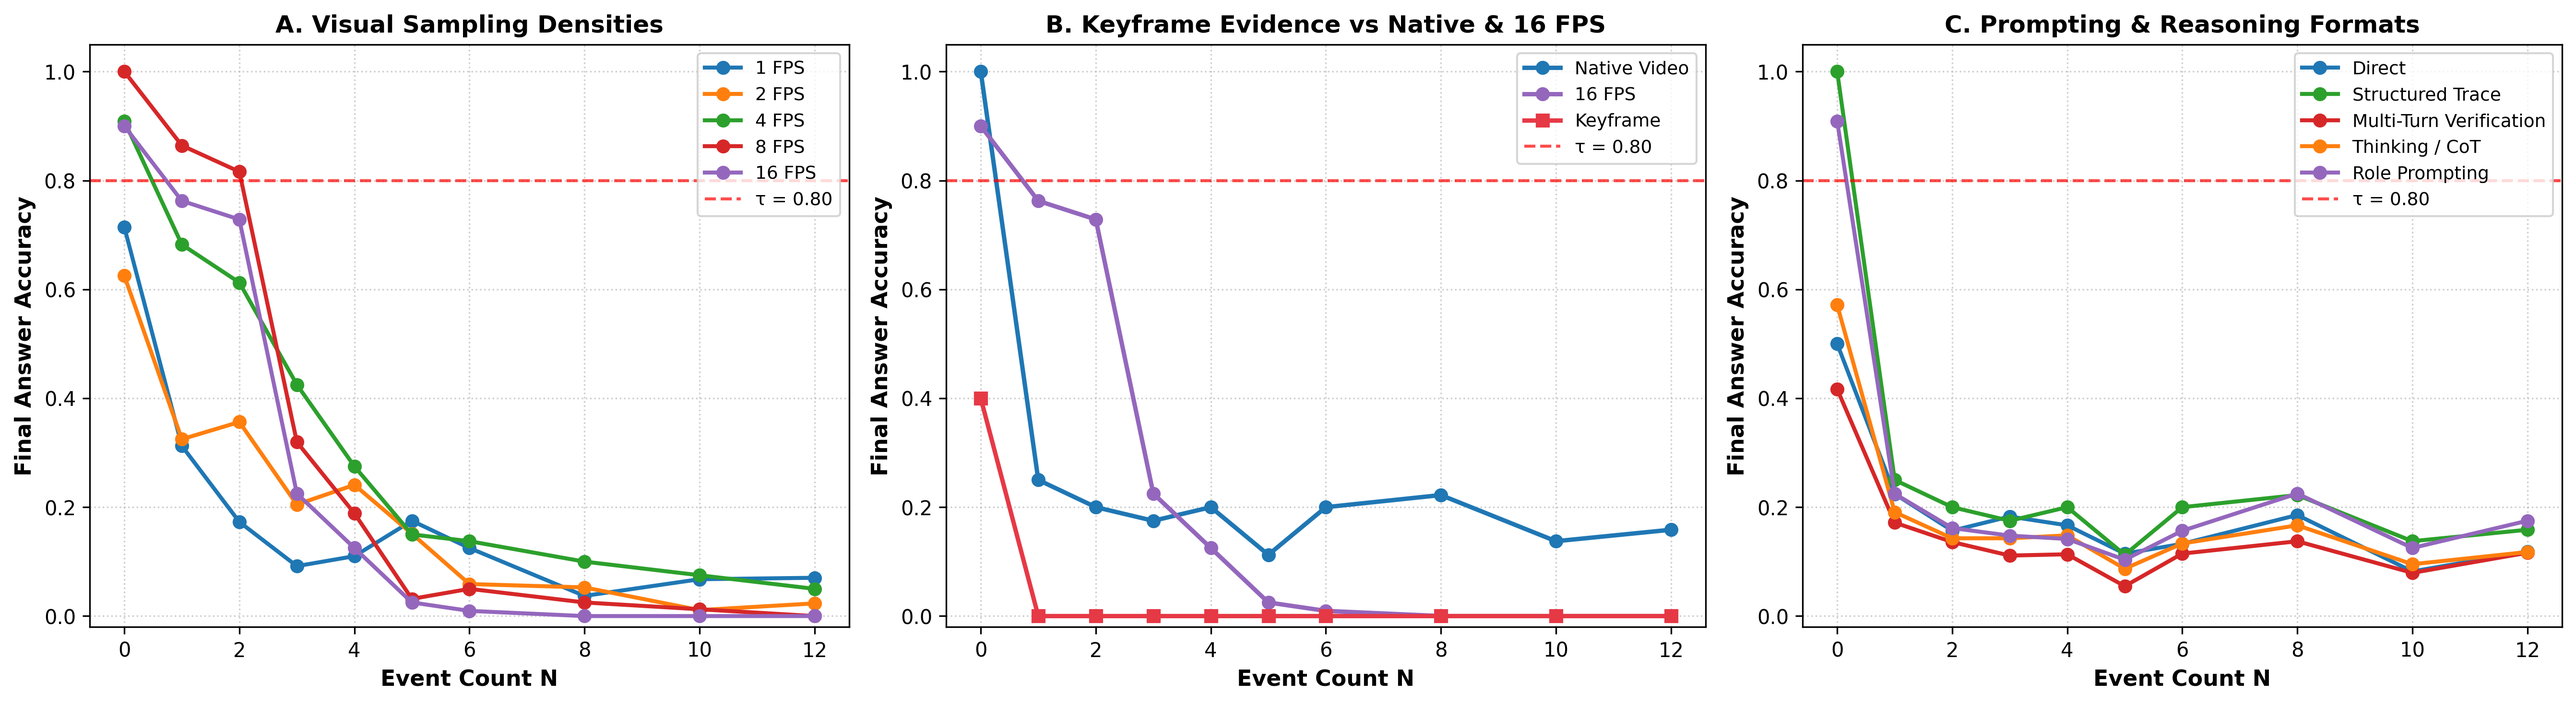
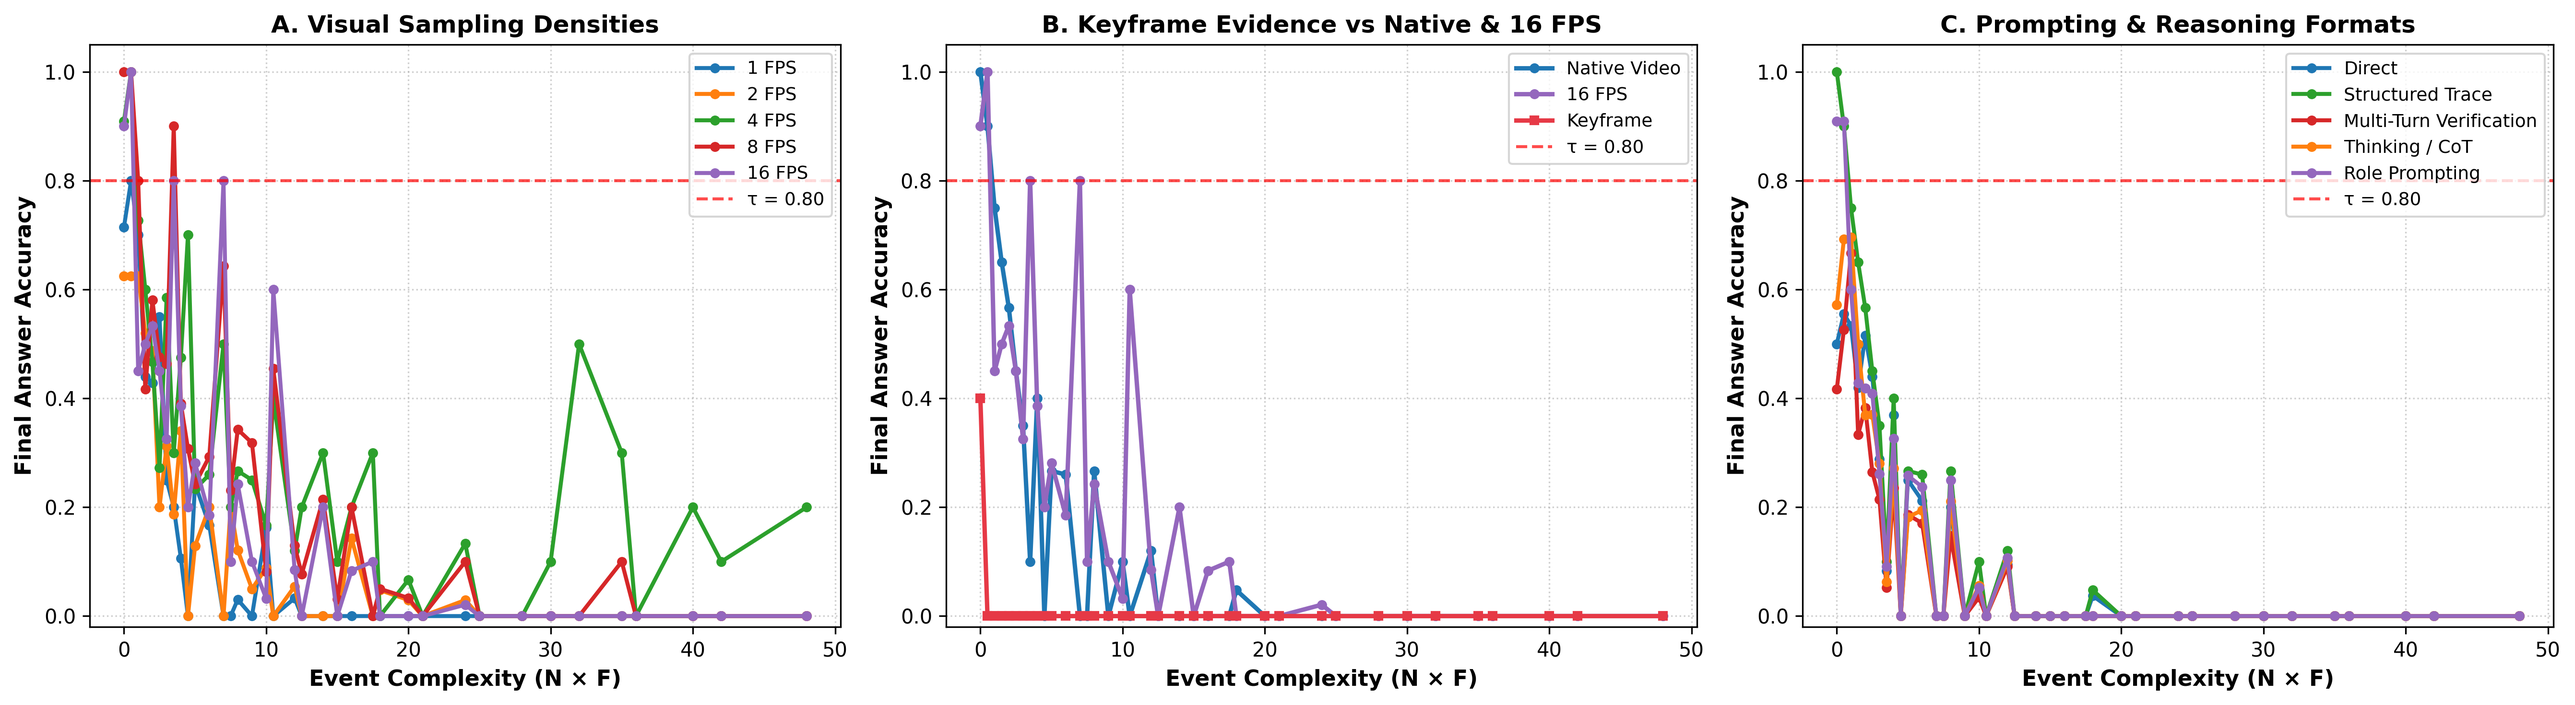
Plot Final Answer Accuracy vs Event Complexity N x F across all 3 intervention panels in Fig 4

diff --git a/scripts/build_paper_figures_and_tables.py b/scripts/build_paper_figures_and_tables.py
@@ -235,14 +235,12 @@ def main():
     for idx, domain in enumerate(["bounce_ball", "blinking", "state_machine"]):
         sub_df = df_base[df_base["task"] == domain]
         if not sub_df.empty:
-            # Pivot with F_hz on index (Y-axis) and N_count on columns (X-axis)
             pivot = sub_df.pivot_table(
                 index="F_hz",
                 columns="N_count",
                 values="exact_match_result",
                 aggfunc="mean"
             )
-            # Fill N=0 column if present
             if 0 in pivot.columns:
                 n0_mean = pivot[0].dropna().mean()
                 if not np.isnan(n0_mean):
@@ -270,11 +268,11 @@ def main():
     print(f"Saved {fig_3_path}")
 
     # -------------------------------------------------------------
-    # FIGURE 4: Intervention Analysis Line Plots (Panels A, B, C)
+    # FIGURE 4: Intervention Analysis Line Plots vs N x F (Panels A, B, C)
     # -------------------------------------------------------------
     fig, (ax_a, ax_b, ax_c) = plt.subplots(1, 3, figsize=(18, 5), dpi=300)
 
-    # Panel A: Visual Sampling Densities vs N
+    # Panel A: Visual Sampling Densities vs N x F
     fps_modes = [("1 FPS", "frames_1fps"), ("2 FPS", "frames_2fps"), ("4 FPS", "frames_4fps"), ("8 FPS", "frames_8fps"), ("16 FPS", "frames_16fps")]
     colors_fps = ["#1f77b4", "#ff7f0e", "#2ca02c", "#d62728", "#9467bd"]
 
@@ -287,23 +285,23 @@ def main():
                     if line.strip():
                         r = json.loads(line)
                         if r.get("task") == "bounce_ball" and r.get("exact_match_result") is not None:
-                            n, _ = parse_n_and_f(r["sample_id"])
-                            r["N_count"] = n
+                            n, freq = parse_n_and_f(r["sample_id"])
+                            r["NxF"] = round(n * freq, 2)
                             recs.append(r)
             if recs:
                 df_fps = pd.DataFrame(recs)
-                n_grouped = df_fps.groupby("N_count")["exact_match_result"].mean()
-                ax_a.plot(n_grouped.index, n_grouped.values, marker="o", label=label, color=color, linewidth=2)
+                nxf_grouped = df_fps.groupby("NxF")["exact_match_result"].mean()
+                ax_a.plot(nxf_grouped.index, nxf_grouped.values, marker="o", label=label, color=color, linewidth=2, markersize=4)
 
     ax_a.axhline(0.80, color="red", linestyle="--", alpha=0.7, label="τ = 0.80")
     ax_a.set_title("A. Visual Sampling Densities", fontsize=12, fontweight="bold")
-    ax_a.set_xlabel("Event Count N", fontsize=11, fontweight="bold")
+    ax_a.set_xlabel("Event Complexity (N × F)", fontsize=11, fontweight="bold")
     ax_a.set_ylabel("Final Answer Accuracy", fontsize=11, fontweight="bold")
     ax_a.set_ylim(-0.02, 1.05)
     ax_a.grid(True, linestyle=":", alpha=0.6)
     ax_a.legend(fontsize=9, loc="upper right")
 
-    # Panel B: Keyframe Evidence vs Native vs 16 FPS vs N
+    # Panel B: Keyframe Evidence vs Native vs 16 FPS vs N x F
     panel_b_modes = [("Native Video", "results_matrix_gemini_gemini-3.6-flash_native_video_structured_trace.jsonl", "#1f77b4"),
                      ("16 FPS", "results_matrix_gemini_gemini-3.6-flash_frames_16fps_structured_trace.jsonl", "#9467bd"),
                      ("Keyframe", "results_matrix_gemini_gemini-3.6-flash_oracle_evidence_structured_trace.jsonl", "#e63946")]
@@ -317,23 +315,23 @@ def main():
                     if line.strip():
                         r = json.loads(line)
                         if r.get("task") == "bounce_ball" and r.get("exact_match_result") is not None:
-                            n, _ = parse_n_and_f(r["sample_id"])
-                            r["N_count"] = n
+                            n, freq = parse_n_and_f(r["sample_id"])
+                            r["NxF"] = round(n * freq, 2)
                             recs.append(r)
             if recs:
                 df_b = pd.DataFrame(recs)
-                n_grouped = df_b.groupby("N_count")["exact_match_result"].mean()
-                ax_b.plot(n_grouped.index, n_grouped.values, marker="s" if label == "Keyframe" else "o", label=label, color=color, linewidth=2.2)
+                nxf_grouped = df_b.groupby("NxF")["exact_match_result"].mean()
+                ax_b.plot(nxf_grouped.index, nxf_grouped.values, marker="s" if label == "Keyframe" else "o", label=label, color=color, linewidth=2.2, markersize=4)
 
     ax_b.axhline(0.80, color="red", linestyle="--", alpha=0.7, label="τ = 0.80")
     ax_b.set_title("B. Keyframe Evidence vs Native & 16 FPS", fontsize=12, fontweight="bold")
-    ax_b.set_xlabel("Event Count N", fontsize=11, fontweight="bold")
+    ax_b.set_xlabel("Event Complexity (N × F)", fontsize=11, fontweight="bold")
     ax_b.set_ylabel("Final Answer Accuracy", fontsize=11, fontweight="bold")
     ax_b.set_ylim(-0.02, 1.05)
     ax_b.grid(True, linestyle=":", alpha=0.6)
     ax_b.legend(fontsize=9, loc="upper right")
 
-    # Panel C: Prompting Strategies Line Plot vs N
+    # Panel C: Prompting Strategies Line Plot vs N x F
     prompt_strats = [("Direct", "results_matrix_gemini_gemini-3.6-flash_native_video_direct.jsonl", "#1f77b4"),
                      ("Structured Trace", "results_matrix_gemini_gemini-3.6-flash_native_video_structured_trace.jsonl", "#2ca02c"),
                      ("Multi-Turn Verification", "results_matrix_gemini_gemini-3.6-flash_native_video_multi_turn_verification.jsonl", "#d62728"),
@@ -349,17 +347,17 @@ def main():
                     if line.strip():
                         r = json.loads(line)
                         if r.get("task") == "bounce_ball" and r.get("exact_match_result") is not None:
-                            n, _ = parse_n_and_f(r["sample_id"])
-                            r["N_count"] = n
+                            n, freq = parse_n_and_f(r["sample_id"])
+                            r["NxF"] = round(n * freq, 2)
                             recs.append(r)
             if recs:
                 df_c = pd.DataFrame(recs)
-                n_grouped = df_c.groupby("N_count")["exact_match_result"].mean()
-                ax_c.plot(n_grouped.index, n_grouped.values, marker="o", label=label, color=color, linewidth=2)
+                nxf_grouped = df_c.groupby("NxF")["exact_match_result"].mean()
+                ax_c.plot(nxf_grouped.index, nxf_grouped.values, marker="o", label=label, color=color, linewidth=2, markersize=4)
 
     ax_c.axhline(0.80, color="red", linestyle="--", alpha=0.7, label="τ = 0.80")
     ax_c.set_title("C. Prompting & Reasoning Formats", fontsize=12, fontweight="bold")
-    ax_c.set_xlabel("Event Count N", fontsize=11, fontweight="bold")
+    ax_c.set_xlabel("Event Complexity (N × F)", fontsize=11, fontweight="bold")
     ax_c.set_ylabel("Final Answer Accuracy", fontsize=11, fontweight="bold")
     ax_c.set_ylim(-0.02, 1.05)
     ax_c.grid(True, linestyle=":", alpha=0.6)
